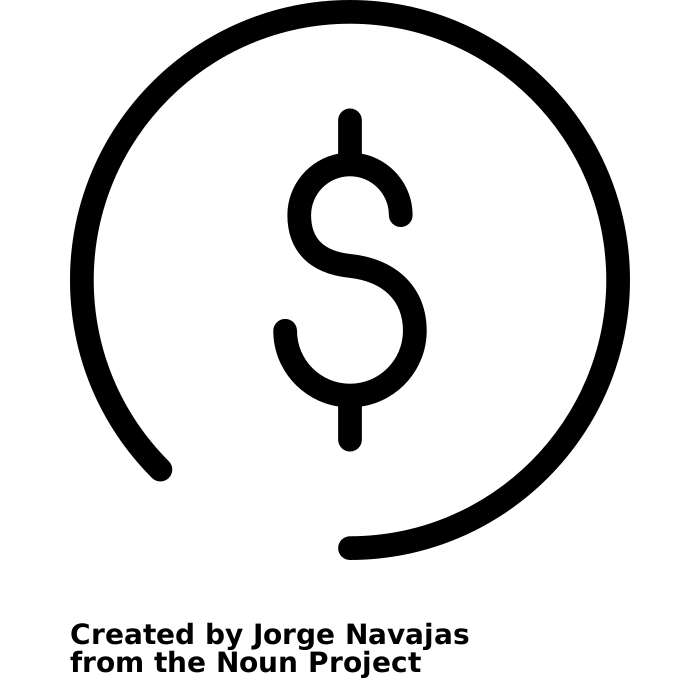
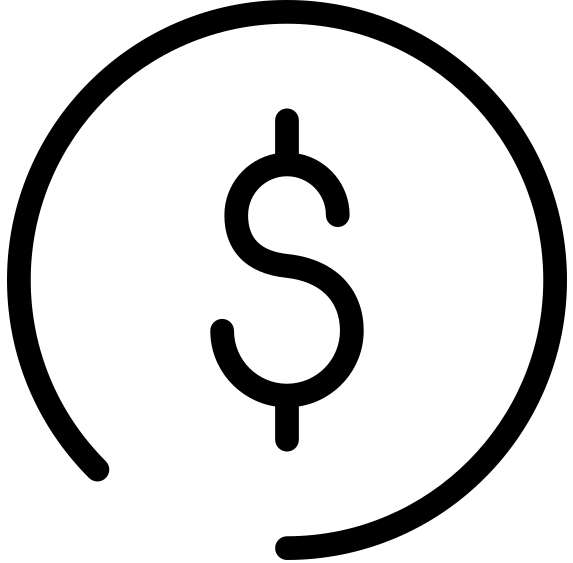
alignment

Changed region(s): [[0.0, 0.0, 1.0, 0.9964], [0.623, 0.0604, 0.6527, 0.0906]]

diff --git a/index.html b/index.html
@@ -8,13 +8,14 @@
     <title>Document</title>
 </head>
 <body>
+    <script src="https://cdn.freecodecamp.org/testable-projects-fcc/v1/bundle.js"></script>
     <header id="header">
         <img src="https://upload.wikimedia.org/wikipedia/commons/thumb/3/3f/Logo_de_Enron.svg/1024px-Logo_de_Enron.svg.png" alt="company-logo" id="header-img">
         <nav id="nav-bar">
             <ul id="nav">
-                <li>Video</li>
-                <li>About Us</li>
-                <li>Learn More</li>
+                <li><a href="#video-sect" class="nav-link">Video</a></li>
+                <li><a href="#about" class="nav-link">About Us</a></li>
+                <li><a href="#form-sect" class="nav-link">Learn More</a></li>
             </ul>
         </nav>
     </header>
@@ -37,7 +38,7 @@
                 Turn insights into action
             </span>
         </span>
-        <span>
+        <span class="feature-span">
             <span class="feature-icon">
                 <img src="dollar.png" class="icon">
             </span>
@@ -47,15 +48,20 @@
             </span>
         </span>
     </section>
-    <h2></h2>
-    <iframe width="560" height="315" src="https://www.youtube.com/embed/yROLDTA8hkQ" title="YouTube video player" frameborder="0" allow="accelerometer; autoplay; clipboard-write; encrypted-media; gyroscope; picture-in-picture" allowfullscreen></iframe>
+    <section id="video-sect">
+    <h2>Our Latest Release</h2>
+    <iframe width="560" height="315" src="https://www.youtube.com/embed/yROLDTA8hkQ" title="YouTube video player" frameborder="0" allow="accelerometer; autoplay; clipboard-write; encrypted-media; gyroscope; picture-in-picture" allowfullscreen id="video"></iframe>
+    </section>
+    <section id="about">
     <h2>About Us</h2>
     <p>Enron Corporation is an American energy, commodities, and services company based in Houston, Texas. It was founded by Kenneth Lay in 1985 as a merger between Lay's Houston Natural Gas and InterNorth, both relatively small regional companies.Enron employs approximately 29,000 staff and is a major electricity, natural gas, communications, and pulp and paper company with revenues of nearly $101 billion. Fortune named Enron "America's Most Innovative Company" for six consecutive years.</p>
-    <div>
+    </section>
+    <section id="form-sect">
+        <h4>Sign Up to keep up with news related to Enron!</h2>
         <form action="https://www.freecodecamp.com/email-submit" id="form">
-            <input type="email" placeholder="Enter your email address">
-            <input type="submit" value="">
+            <input type="email" placeholder="Enter your email address" id="email">
+            <input type="submit" id="submit">
         </form>
-    </div>
+    </section>
 </body>
 </html>

diff --git a/style.css b/style.css
@@ -1,7 +1,9 @@
 body {
     display: flex;
     flex-direction: column;
-    font-size: larger;
+    font-size: 1.6em;
+    font-family: 'Franklin Gothic Medium', 'Arial Narrow', Arial, sans-serif;
+    background-color: rgb(222, 184, 135, 0.1);
 }
 
 header {
@@ -19,14 +21,15 @@ header {
     align-items: center;
 }
 
-@media(min-width: 400px) {
-    video {
+@media(max-width: 315px) {
+    #video {
         width: 100%;
     }
 }
 
 #header-img {
     width: 60px;
+    padding-left: 60px;
 }
 
 .icon {
@@ -35,12 +38,48 @@ header {
 
 .feature-span {
     display: flex;
-    flex-direction: column;
-    justify-content: center;
+    gap: 64px;
+    justify-content: flex-start;
     align-items: center;
 }
 
-#features {
+section {
+    margin: auto;
     display: flex;
-    gap: 8px;
+    gap: 32px;
+    flex-direction: column;
+    width: 40vw;
+    padding: 64px
+}
+
+#about {
+    width: 70vw;
+}
+
+#form-sect {
+    background-color: cyan;
+    border-radius: 5px;
+    display: flex;
+    padding: 32px;
+    justify-content: space-between;
+    width: 60vw;
+}
+
+form {
+    display: flex;
+    justify-content: space-between;
+}
+input {
+    border-style: none;
+    height: 30px;
+    background-color: whitesmoke;
+}
+
+#email {
+    width: 60%;
+}
+
+a {
+    text-decoration: none;
+    color: black;
 }

diff --git a/README.md b/README.md
@@ -3,3 +3,5 @@
 ###credits
 
 Clock by Maxim Kulikov from NounProject.com
+Data by Alice Design from NounProject.com
+Price by Jorge Navajas from NounProject.com
